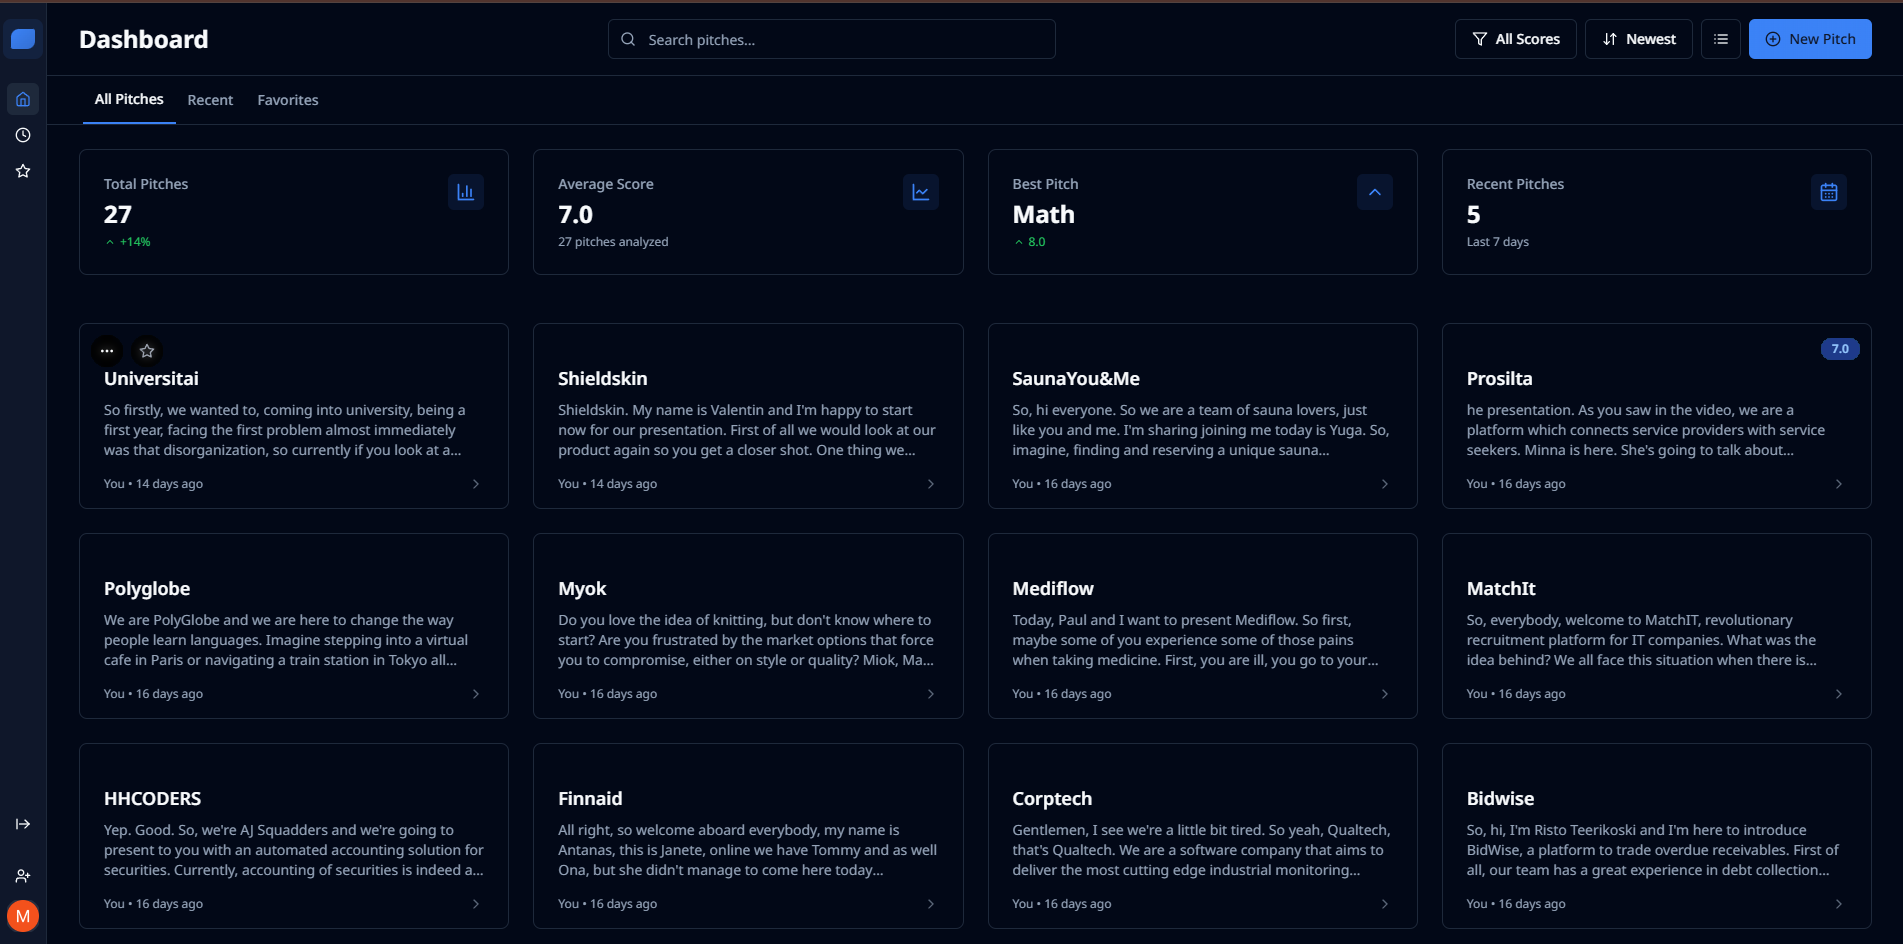
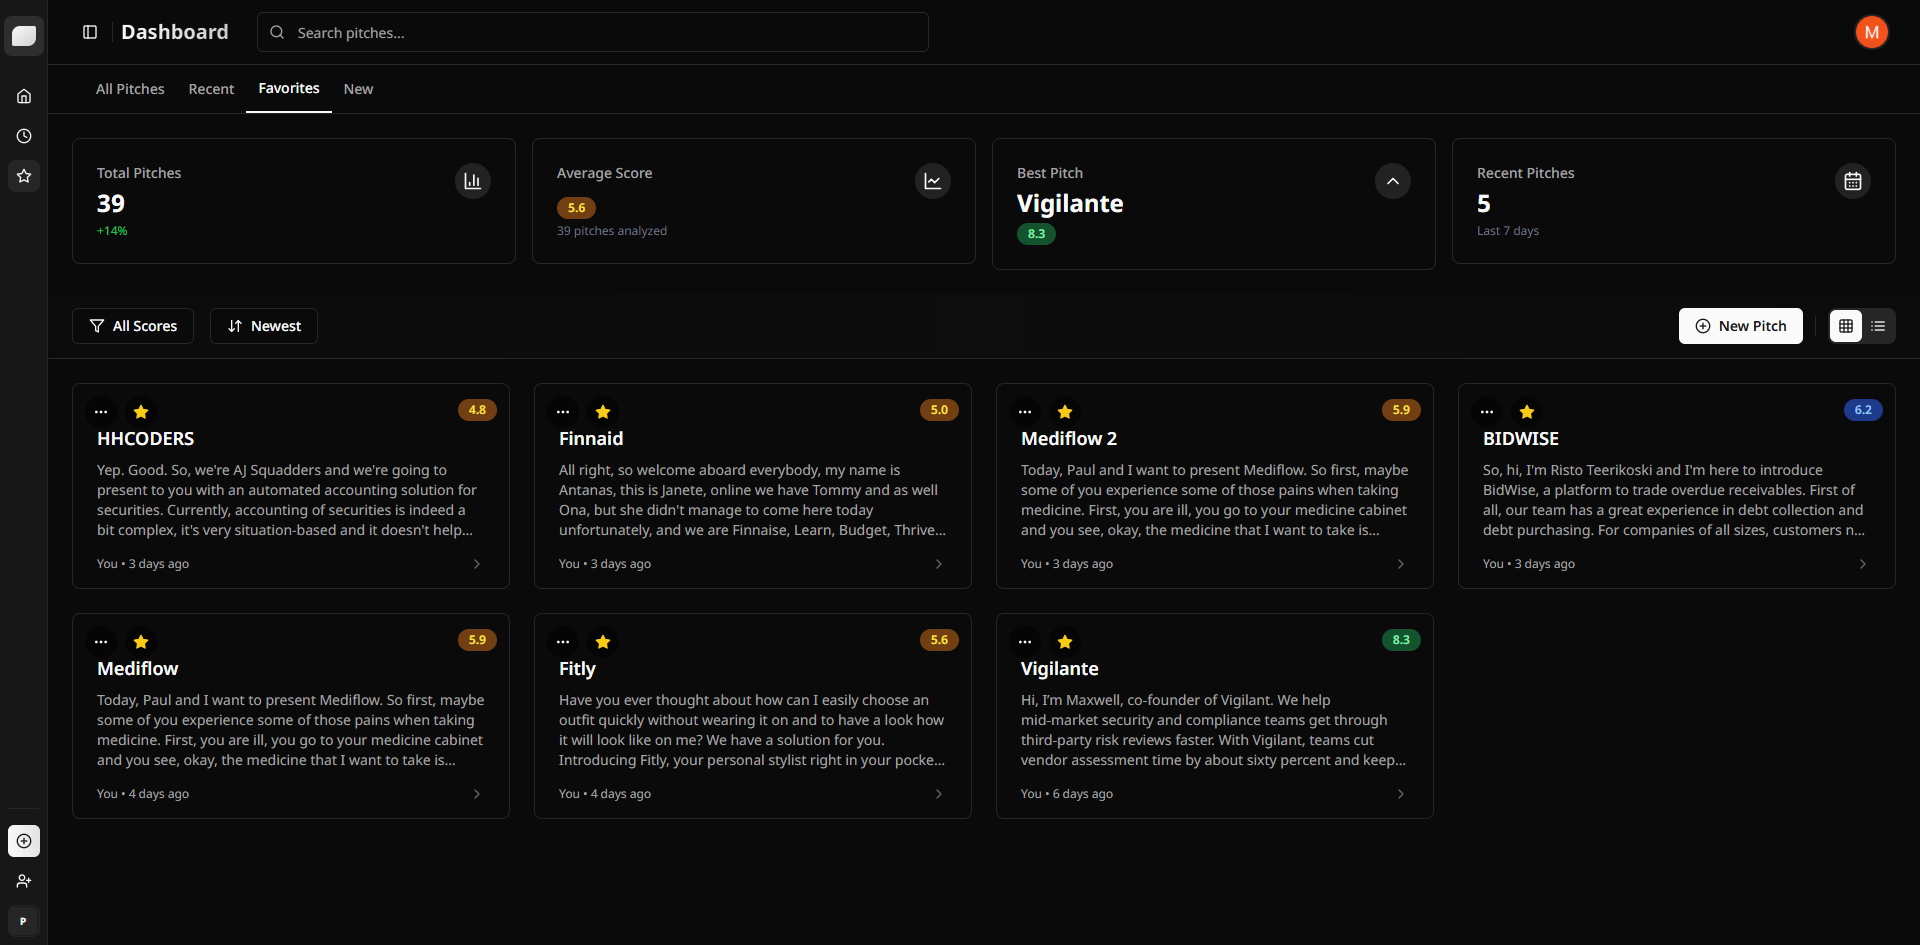
changed app theme

diff --git a/src/app/globals.css b/src/app/globals.css
@@ -13,39 +13,39 @@ body,
 @layer base {
     :root {
         --background: 0 0% 100%;
-        --foreground: 222.2 84% 4.9%;
+        --foreground: 0 0% 3.9%;
         --card: 0 0% 100%;
-        --card-foreground: 222.2 84% 4.9%;
+        --card-foreground: 0 0% 3.9%;
         --popover: 0 0% 100%;
-        --popover-foreground: 222.2 84% 4.9%;
-        --primary: 221.2 83.2% 53.3%;
-        --primary-foreground: 210 40% 98%;
-        --secondary: 210 40% 96.1%;
-        --secondary-foreground: 222.2 47.4% 11.2%;
-        --muted: 210 40% 96.1%;
-        --muted-foreground: 215.4 16.3% 46.9%;
-        --accent: 210 40% 96.1%;
-        --accent-foreground: 222.2 47.4% 11.2%;
+        --popover-foreground: 0 0% 3.9%;
+        --primary: 0 0% 9%;
+        --primary-foreground: 0 0% 98%;
+        --secondary: 0 0% 96.1%;
+        --secondary-foreground: 0 0% 9%;
+        --muted: 0 0% 96.1%;
+        --muted-foreground: 0 0% 45.1%;
+        --accent: 0 0% 96.1%;
+        --accent-foreground: 0 0% 9%;
         --destructive: 0 84.2% 60.2%;
-        --destructive-foreground: 210 40% 98%;
-        --border: 214.3 31.8% 91.4%;
-        --input: 214.3 31.8% 91.4%;
-        --ring: 221.2 83.2% 53.3%;
-        --chart-1: 221.2 83.2% 53.3%;
-        --chart-2: 209.3 76% 45%;
-        --chart-3: 198.6 88.7% 48.4%;
-        --chart-4: 231.8 89.2% 51.4%;
-        --chart-5: 217.2 91.2% 59.8%;
-        --radius: 0.5rem;
+        --destructive-foreground: 0 0% 98%;
+        --border: 0 0% 89.8%;
+        --input: 0 0% 89.8%;
+        --ring: 0 0% 3.9%;
+        --chart-1: 12 76% 61%;
+        --chart-2: 173 58% 39%;
+        --chart-3: 197 37% 24%;
+        --chart-4: 43 74% 66%;
+        --chart-5: 27 87% 67%;
+        --radius: 0.65rem;
 
-        --sidebar-background: 210 40% 98%;
-        --sidebar-foreground: 222.2 47.4% 11.2%;
-        --sidebar-primary: 221.2 83.2% 53.3%;
-        --sidebar-primary-foreground: 210 40% 98%;
-        --sidebar-accent: 210 40% 96.1%;
-        --sidebar-accent-foreground: 222.2 47.4% 11.2%;
-        --sidebar-border: 214.3 31.8% 91.4%;
-        --sidebar-ring: 221.2 83.2% 53.3%;
+        --sidebar-background: 0 0% 98%;
+        --sidebar-foreground: 0 0% 9%;
+        --sidebar-primary: 0 0% 9%;
+        --sidebar-primary-foreground: 0 0% 98%;
+        --sidebar-accent: 0 0% 96.1%;
+        --sidebar-accent-foreground: 0 0% 9%;
+        --sidebar-border: 0 0% 89.8%;
+        --sidebar-ring: 0 0% 3.9%;
 
 
         --primary-rgb: 59 130 246;
@@ -79,39 +79,39 @@ body,
     }
 
     .dark {
-        --background: 222.2 84% 4.9%;
-        --foreground: 210 40% 98%;
-        --card: 222.2 84% 4.9%;
-        --card-foreground: 210 40% 98%;
-        --popover: 222.2 84% 4.9%;
-        --popover-foreground: 210 40% 98%;
-        --primary: 217.2 91.2% 59.8%;
-        --primary-foreground: 222.2 47.4% 11.2%;
-        --secondary: 217.2 32.6% 17.5%;
-        --secondary-foreground: 210 40% 98%;
-        --muted: 217.2 32.6% 17.5%;
-        --muted-foreground: 215 20.2% 65.1%;
-        --accent: 217.2 32.6% 17.5%;
-        --accent-foreground: 210 40% 98%;
+        --background: 0 0% 3.9%;
+        --foreground: 0 0% 98%;
+        --card: 0 0% 3.9%;
+        --card-foreground: 0 0% 98%;
+        --popover: 0 0% 3.9%;
+        --popover-foreground: 0 0% 98%;
+        --primary: 0 0% 98%;
+        --primary-foreground: 0 0% 9%;
+        --secondary: 0 0% 14.9%;
+        --secondary-foreground: 0 0% 98%;
+        --muted: 0 0% 14.9%;
+        --muted-foreground: 0 0% 63.9%;
+        --accent: 0 0% 14.9%;
+        --accent-foreground: 0 0% 98%;
         --destructive: 0 62.8% 30.6%;
-        --destructive-foreground: 210 40% 98%;
-        --border: 217.2 32.6% 17.5%;
-        --input: 217.2 32.6% 17.5%;
-        --ring: 224.3 76.3% 48%;
-        --chart-1: 217.2 91.2% 59.8%;
-        --chart-2: 209.3 76% 45%;
-        --chart-3: 198.6 88.7% 48.4%;
-        --chart-4: 231.8 89.2% 51.4%;
-        --chart-5: 224.3 76.3% 48%;
+        --destructive-foreground: 0 0% 98%;
+        --border: 0 0% 14.9%;
+        --input: 0 0% 14.9%;
+        --ring: 0 0% 83.1%;
+        --chart-1: 220 70% 50%;
+        --chart-2: 160 60% 45%;
+        --chart-3: 30 80% 55%;
+        --chart-4: 280 65% 60%;
+        --chart-5: 340 75% 55%;
 
-        --sidebar-background: 222.2 47.4% 11.2%;
-        --sidebar-foreground: 210 40% 98%;
-        --sidebar-primary: 217.2 91.2% 59.8%;
-        --sidebar-primary-foreground: 222.2 47.4% 11.2%;
-        --sidebar-accent: 217.2 32.6% 17.5%;
-        --sidebar-accent-foreground: 210 40% 98%;
-        --sidebar-border: 217.2 32.6% 17.5%;
-        --sidebar-ring: 224.3 76.3% 48%;
+        --sidebar-background: 0 0% 9%;
+        --sidebar-foreground: 0 0% 98%;
+        --sidebar-primary: 0 0% 98%;
+        --sidebar-primary-foreground: 0 0% 9%;
+        --sidebar-accent: 0 0% 14.9%;
+        --sidebar-accent-foreground: 0 0% 98%;
+        --sidebar-border: 0 0% 14.9%;
+        --sidebar-ring: 0 0% 83.1%;
 
         --shadow-sm: 0 1px 2px rgba(0, 0, 0, 0.3);
         --shadow-md: 0 4px 6px -1px rgba(0, 0, 0, 0.4), 0 2px 4px -1px rgba(0, 0, 0, 0.3);
